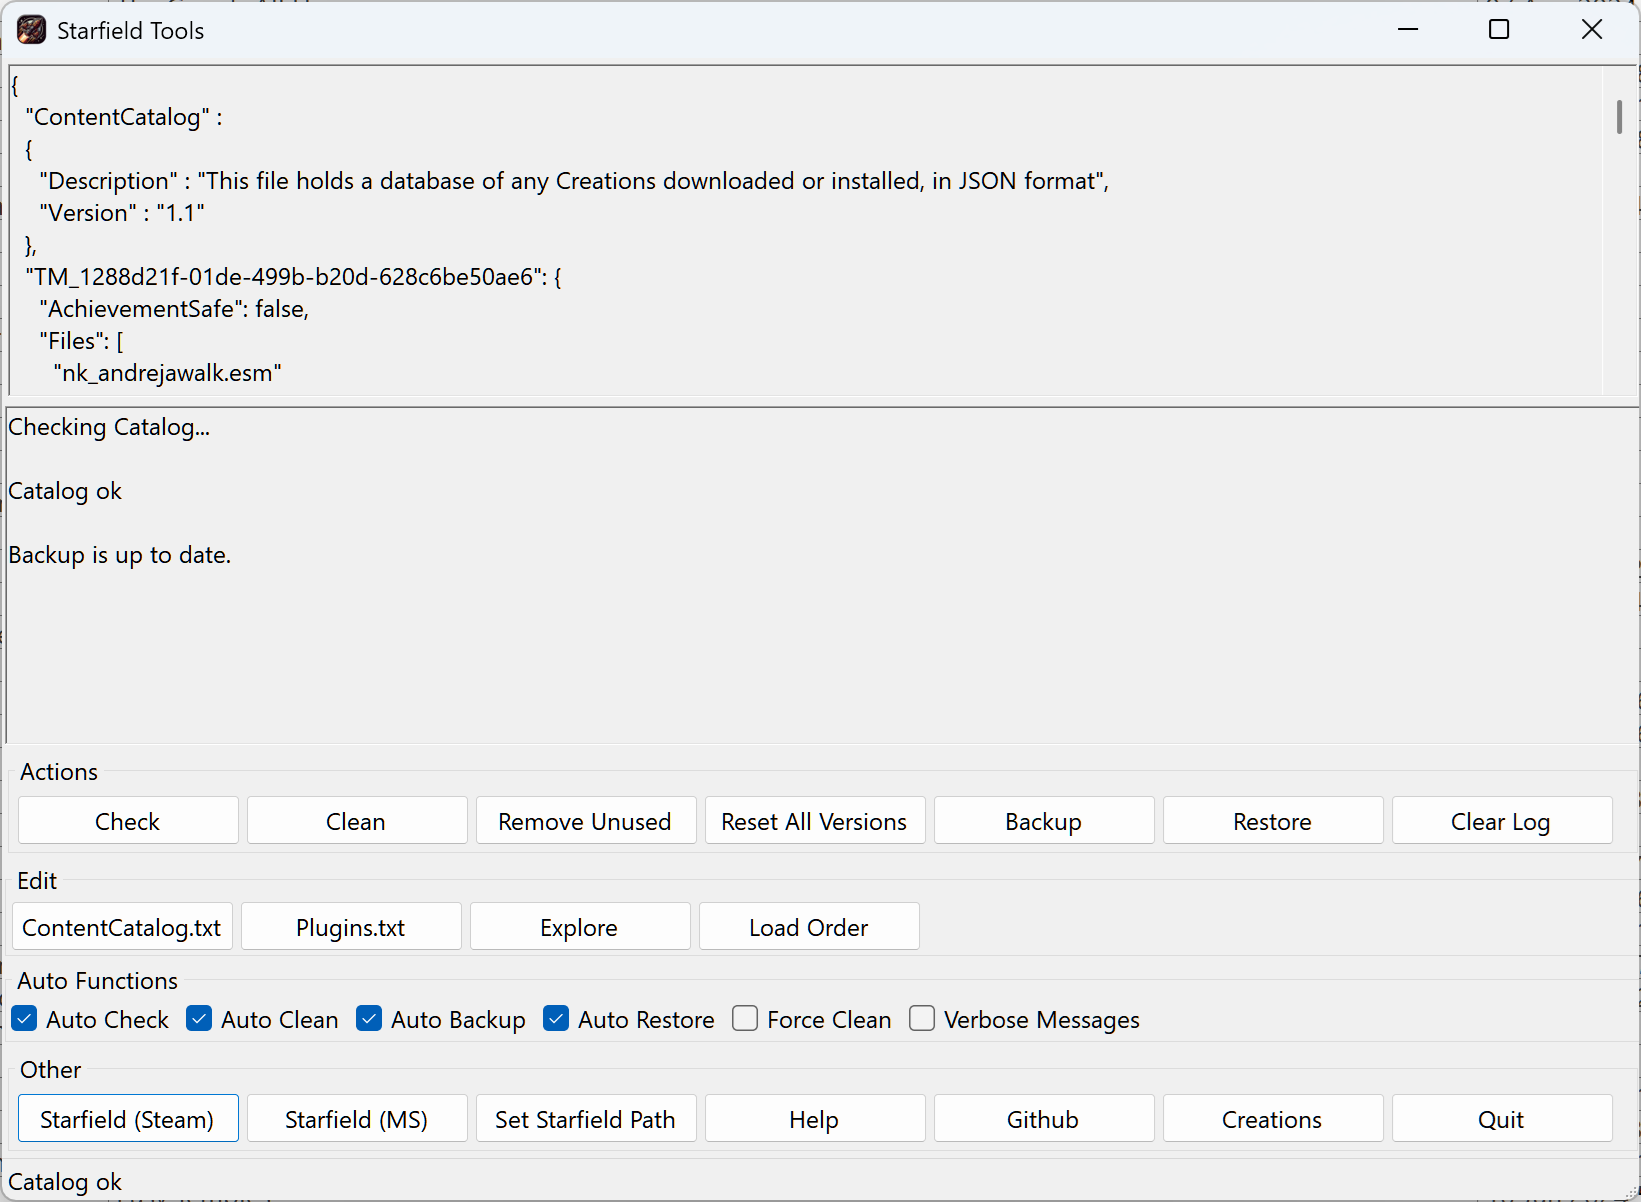
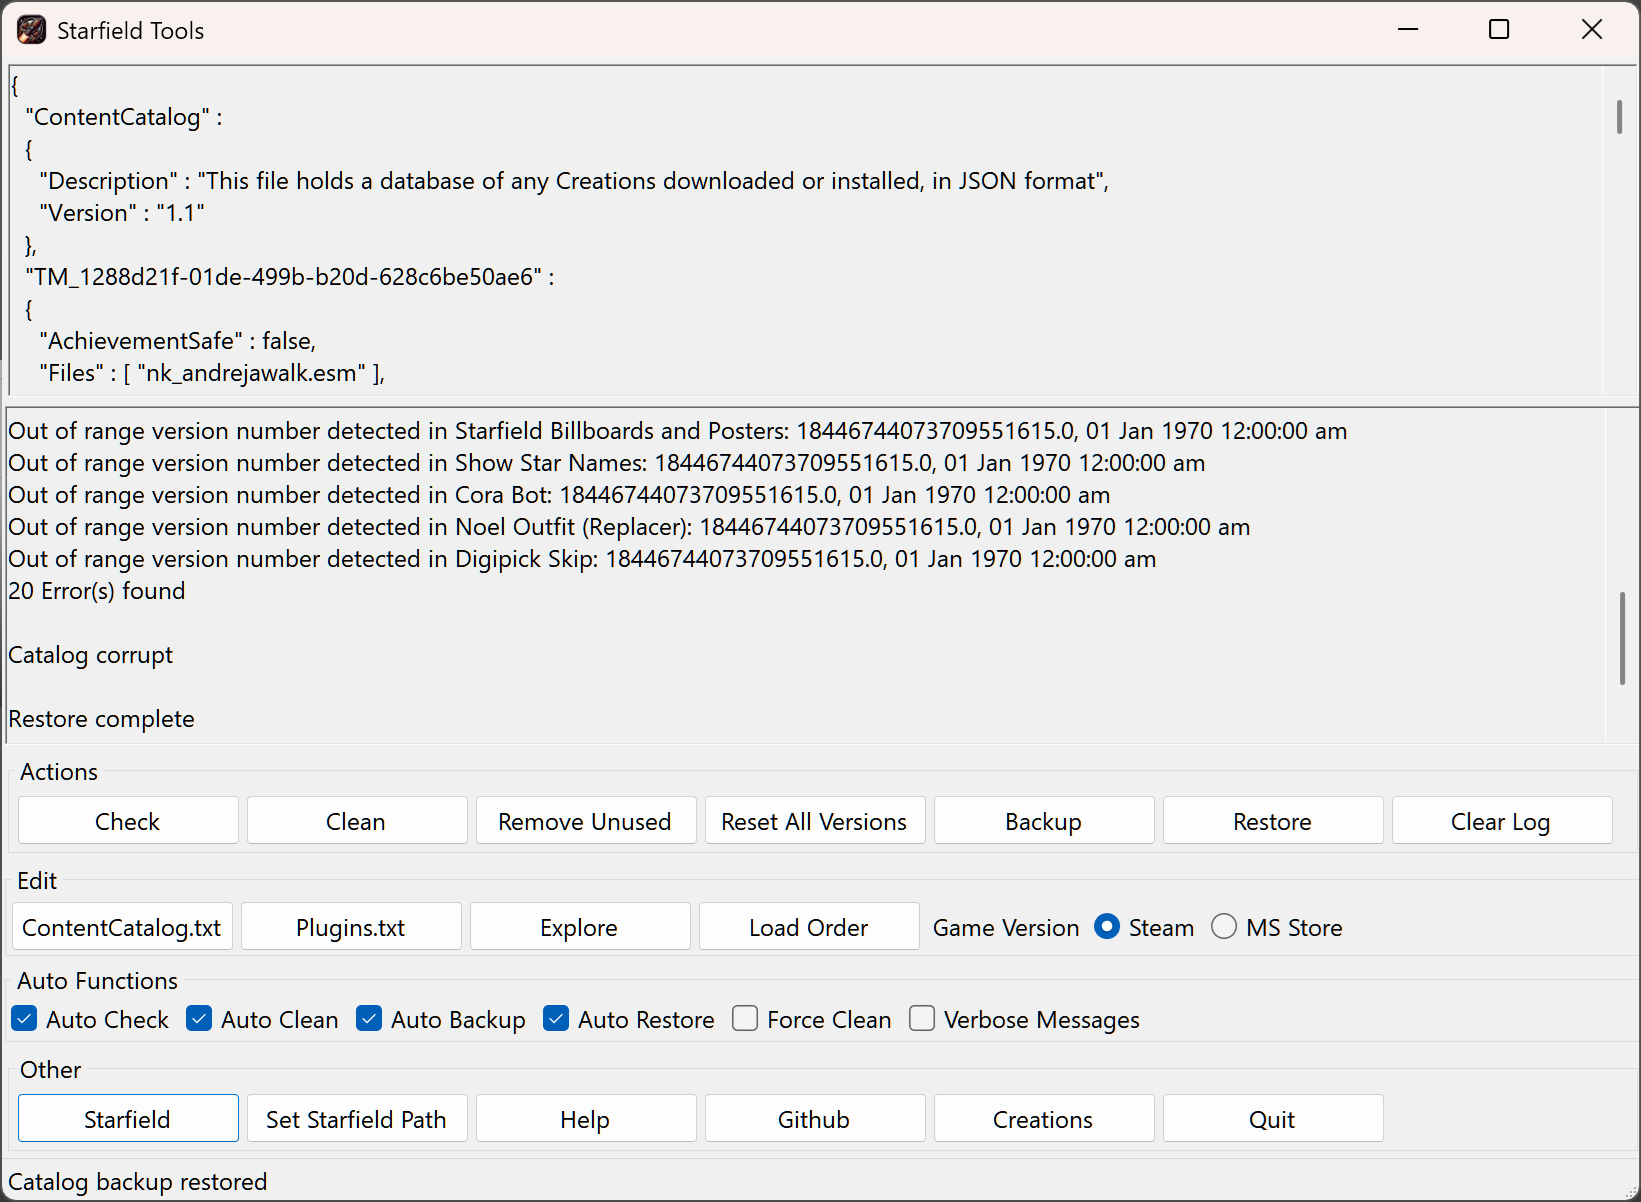
Updated screenshots

diff --git a/Load Order Editor/frmLoadOrder.Designer.cs b/Load Order Editor/frmLoadOrder.Designer.cs
@@ -177,7 +177,7 @@
             dataGridView1.Columns.AddRange(new System.Windows.Forms.DataGridViewColumn[] { ModEnabled, PluginName, Description, Group, Version, TimeStamp, Achievements, Files, CreationsID });
             dataGridView1.ContextMenuStrip = contextMenuDatagrid;
             dataGridView1.Dock = System.Windows.Forms.DockStyle.Fill;
-            dataGridView1.Location = new System.Drawing.Point(4, 47);
+            dataGridView1.Location = new System.Drawing.Point(4, 45);
             dataGridView1.Margin = new System.Windows.Forms.Padding(4, 5, 4, 5);
             dataGridView1.MultiSelect = false;
             dataGridView1.Name = "dataGridView1";
@@ -185,7 +185,7 @@
             dataGridView1.RowTemplate.Height = 33;
             dataGridView1.RowTemplate.Resizable = System.Windows.Forms.DataGridViewTriState.True;
             dataGridView1.ShowEditingIcon = false;
-            dataGridView1.Size = new System.Drawing.Size(1765, 977);
+            dataGridView1.Size = new System.Drawing.Size(1765, 979);
             dataGridView1.TabIndex = 0;
             dataGridView1.CellDoubleClick += dataGridView1_CellDoubleClick;
             dataGridView1.Sorted += dataGridView1_Sorted;
@@ -425,7 +425,7 @@
             menuStrip1.Items.AddRange(new System.Windows.Forms.ToolStripItem[] { fileToolStripMenuItem, editToolStripMenuItem, toolsToolStripMenuItem, toolStripMenuColumns, toolStripMenuGame, toolStripMenuMods, toolStripMenuLinks, helpToolStripMenuItem, testToolStripMenu });
             menuStrip1.Location = new System.Drawing.Point(0, 0);
             menuStrip1.Name = "menuStrip1";
-            menuStrip1.Size = new System.Drawing.Size(1773, 42);
+            menuStrip1.Size = new System.Drawing.Size(1773, 40);
             menuStrip1.TabIndex = 7;
             menuStrip1.Text = "menuStrip1";
             // 
@@ -433,7 +433,7 @@
             // 
             fileToolStripMenuItem.DropDownItems.AddRange(new System.Windows.Forms.ToolStripItem[] { newToolStripMenuItem, openToolStripMenuItem, toolStripSeparator, toolStripMenuBackup, toolStripMenuRestore, toolStripSeparator5, saveToolStripMenuItem, saveAsToolStripMenuItem, toolStripSeparator1, toolStripMenuExportActive, toolStripSeparator2, toolStripMenuExploreAppData, toolStripMenuExploreData, toolStripMenuExploreGameDocs, toolStripSeparator3, toolStripMenuEditPlugins, toolStripSeparator19, toolStripMenuDeleteCCC, toolStripSeparator17, exitToolStripMenuItem });
             fileToolStripMenuItem.Name = "fileToolStripMenuItem";
-            fileToolStripMenuItem.Size = new System.Drawing.Size(71, 38);
+            fileToolStripMenuItem.Size = new System.Drawing.Size(71, 36);
             fileToolStripMenuItem.Text = "&File";
             // 
             // newToolStripMenuItem
@@ -575,7 +575,7 @@
             // 
             editToolStripMenuItem.DropDownItems.AddRange(new System.Windows.Forms.ToolStripItem[] { toolStripMenuDeleteLine });
             editToolStripMenuItem.Name = "editToolStripMenuItem";
-            editToolStripMenuItem.Size = new System.Drawing.Size(74, 38);
+            editToolStripMenuItem.Size = new System.Drawing.Size(74, 36);
             editToolStripMenuItem.Text = "&Edit";
             // 
             // toolStripMenuDeleteLine
@@ -590,7 +590,7 @@
             // 
             toolsToolStripMenuItem.DropDownItems.AddRange(new System.Windows.Forms.ToolStripItem[] { optionsToolStripMenuItem, toolStripSeparator18, toolStripMenuSetPath, toolStripSeparator14, toolStripMenuSteam, toolStripMenuMS, toolStripSeparator16, toolStripMenuLootPath, toolStripMenuAutoDelccc, toolStripSeparator13, toolStripMenuLoadingScreen });
             toolsToolStripMenuItem.Name = "toolsToolStripMenuItem";
-            toolsToolStripMenuItem.Size = new System.Drawing.Size(89, 38);
+            toolsToolStripMenuItem.Size = new System.Drawing.Size(89, 36);
             toolsToolStripMenuItem.Text = "&Tools";
             // 
             // optionsToolStripMenuItem
@@ -671,7 +671,7 @@
             // 
             toolStripMenuColumns.DropDownItems.AddRange(new System.Windows.Forms.ToolStripItem[] { toolStripMenuAchievements, toolStripMenuCreationsID, toolStripMenuFiles, toolStripMenuGroup });
             toolStripMenuColumns.Name = "toolStripMenuColumns";
-            toolStripMenuColumns.Size = new System.Drawing.Size(128, 38);
+            toolStripMenuColumns.Size = new System.Drawing.Size(128, 36);
             toolStripMenuColumns.Text = "Columns";
             // 
             // toolStripMenuAchievements
@@ -712,7 +712,7 @@
             // 
             toolStripMenuGame.DropDownItems.AddRange(new System.Windows.Forms.ToolStripItem[] { toolStripMenuRunSteam, toolStripMenuRunMS });
             toolStripMenuGame.Name = "toolStripMenuGame";
-            toolStripMenuGame.Size = new System.Drawing.Size(96, 38);
+            toolStripMenuGame.Size = new System.Drawing.Size(96, 36);
             toolStripMenuGame.Text = "Game";
             // 
             // toolStripMenuRunSteam
@@ -735,7 +735,7 @@
             // 
             toolStripMenuMods.DropDownItems.AddRange(new System.Windows.Forms.ToolStripItem[] { toolStripMenuEnableAll, toolStripMenuDisableAll, toolStripSeparator6, toolStripMenuAdd, toolStripMenuDelete, toolStripSeparator8, toolStripMenuAutoClean, toolStripMenuScanMods, toolStripMenuCleanup, toolStripSeparator7, toolStripMenuInstall, toolStripMenuUninstall, toolStripSeparator9, toolStripMenuLoot, toolStripMenuLootSort, toolStripSeparator15, toolStripMenuStats });
             toolStripMenuMods.Name = "toolStripMenuMods";
-            toolStripMenuMods.Size = new System.Drawing.Size(94, 38);
+            toolStripMenuMods.Size = new System.Drawing.Size(94, 36);
             toolStripMenuMods.Text = "Mods";
             // 
             // toolStripMenuEnableAll
@@ -855,7 +855,7 @@
             // 
             toolStripMenuLinks.DropDownItems.AddRange(new System.Windows.Forms.ToolStripItem[] { toolStripMenuCreations, toolStripMenuNexus, toolStripMenuBGSStarfield, toolStripMenuBGSX, toolStripMenuGitHub });
             toolStripMenuLinks.Name = "toolStripMenuLinks";
-            toolStripMenuLinks.Size = new System.Drawing.Size(87, 38);
+            toolStripMenuLinks.Size = new System.Drawing.Size(87, 36);
             toolStripMenuLinks.Text = "Links";
             // 
             // toolStripMenuCreations
@@ -897,7 +897,7 @@
             // 
             helpToolStripMenuItem.DropDownItems.AddRange(new System.Windows.Forms.ToolStripItem[] { aboutToolStripMenuItem });
             helpToolStripMenuItem.Name = "helpToolStripMenuItem";
-            helpToolStripMenuItem.Size = new System.Drawing.Size(84, 38);
+            helpToolStripMenuItem.Size = new System.Drawing.Size(84, 36);
             helpToolStripMenuItem.Text = "&Help";
             // 
             // aboutToolStripMenuItem
@@ -912,7 +912,7 @@
             // 
             testToolStripMenu.DropDownItems.AddRange(new System.Windows.Forms.ToolStripItem[] { toolStripMenuTestJson });
             testToolStripMenu.Name = "testToolStripMenu";
-            testToolStripMenu.Size = new System.Drawing.Size(76, 38);
+            testToolStripMenu.Size = new System.Drawing.Size(76, 36);
             testToolStripMenu.Text = "Test";
             testToolStripMenu.Visible = false;
             // 

diff --git a/Catalog Fixer/Form1.Designer.cs b/Catalog Fixer/Form1.Designer.cs
@@ -161,7 +161,7 @@
             btnStarfield.Size = new System.Drawing.Size(223, 50);
             btnStarfield.TabIndex = 15;
             btnStarfield.Text = "Starfield";
-            toolTip1.SetToolTip(btnStarfield, "Launch Starfield -Steam version");
+            toolTip1.SetToolTip(btnStarfield, "Launch Starfield");
             btnStarfield.UseVisualStyleBackColor = true;
             btnStarfield.Click += btnStarfield_Click;
             // 

diff --git a/Catalog Fixer/Form1.cs b/Catalog Fixer/Form1.cs
@@ -753,6 +753,7 @@ namespace Starfield_Tools
                 Settings.Default.StarfieldGamePath = StarfieldGamePath;
             Settings.Default.ForceClean = ForceClean;
             Settings.Default.Verbose = Verbose;
+            Settings.Default.GameVersion= GameVersion; ;
             Settings.Default.Save();
         }
 
